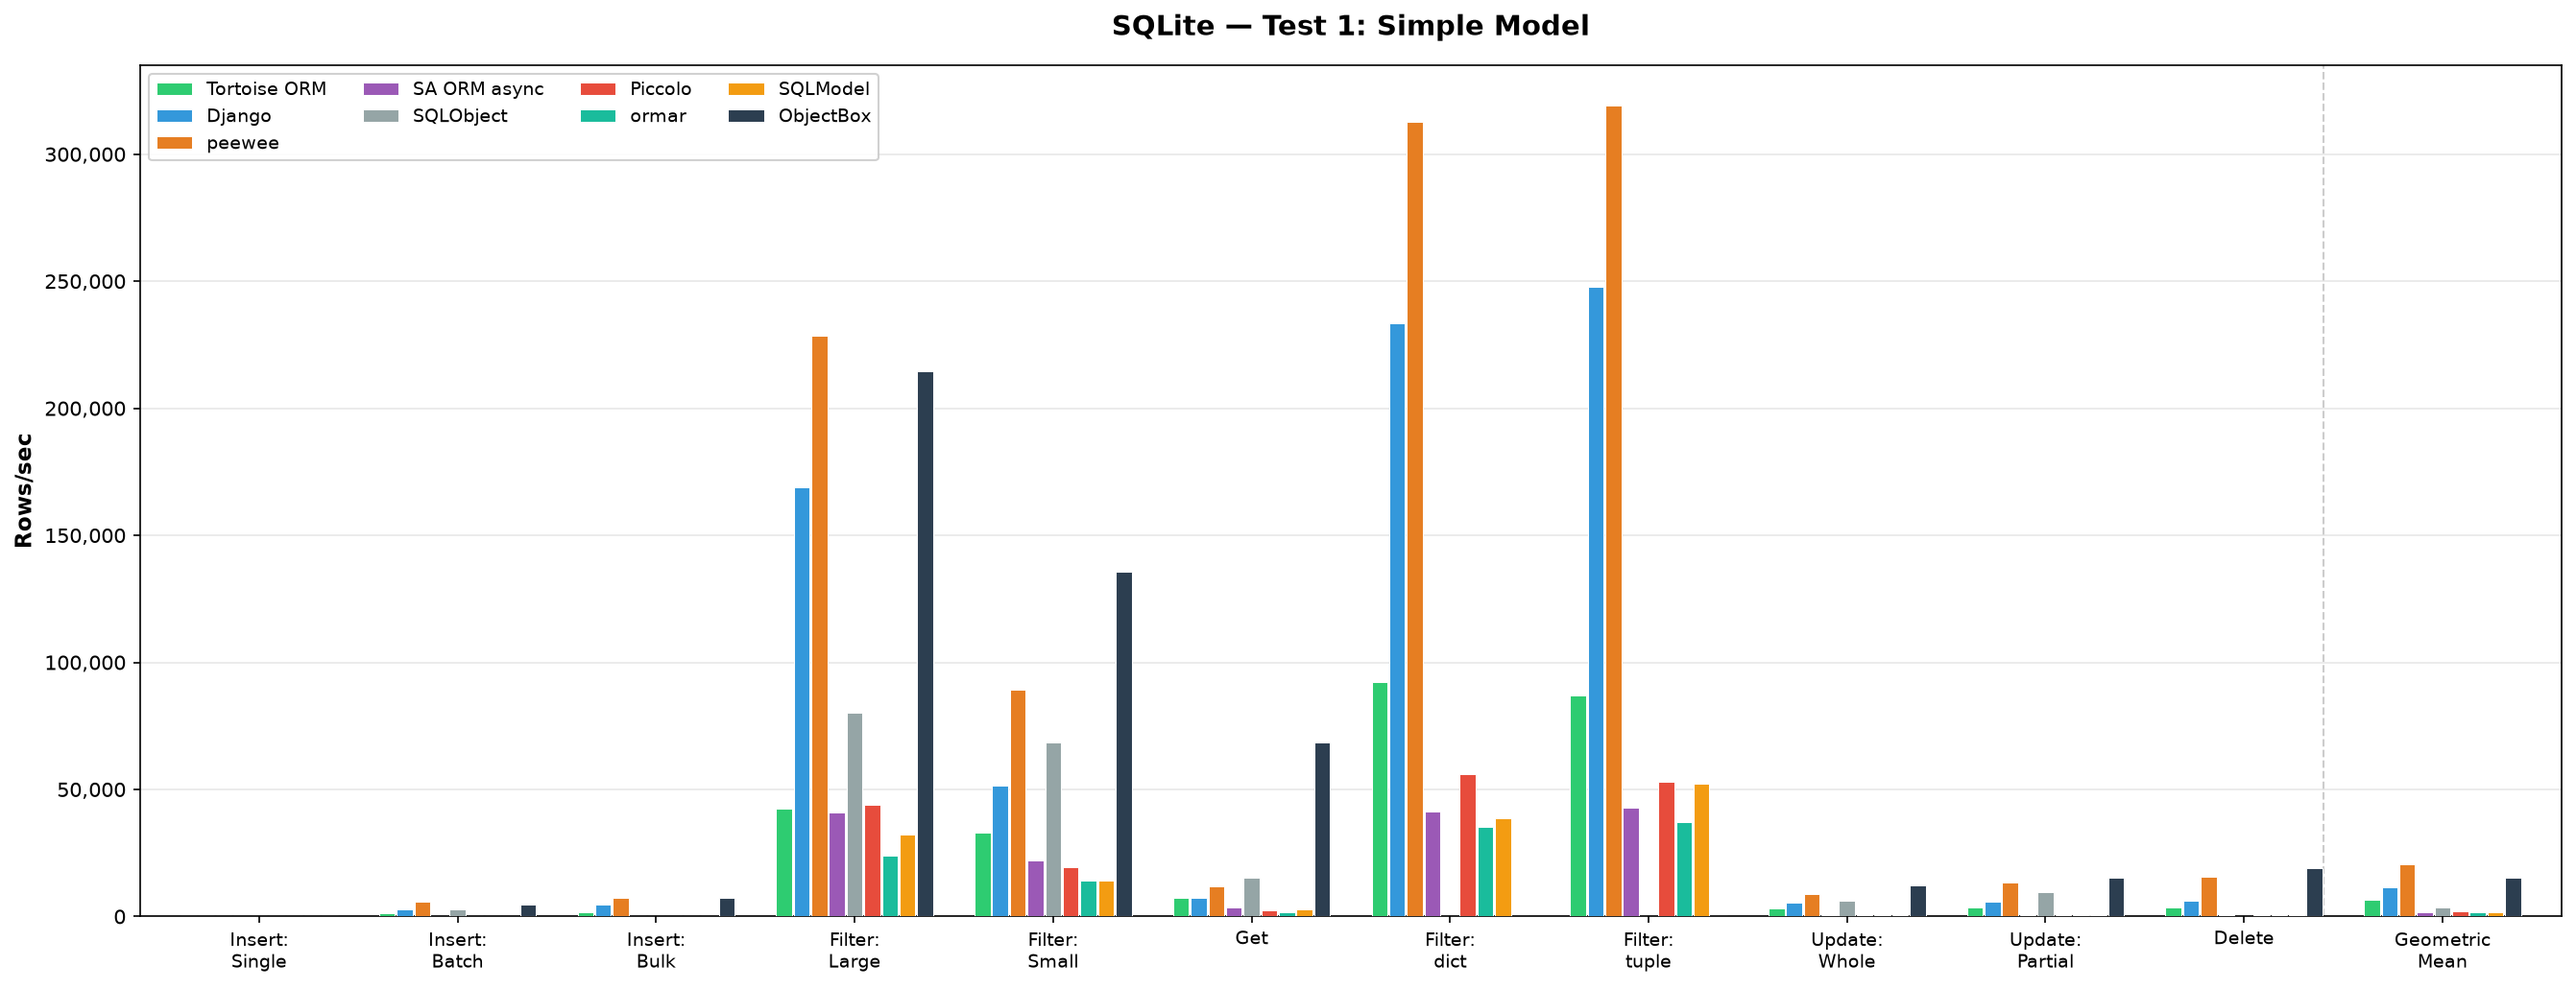
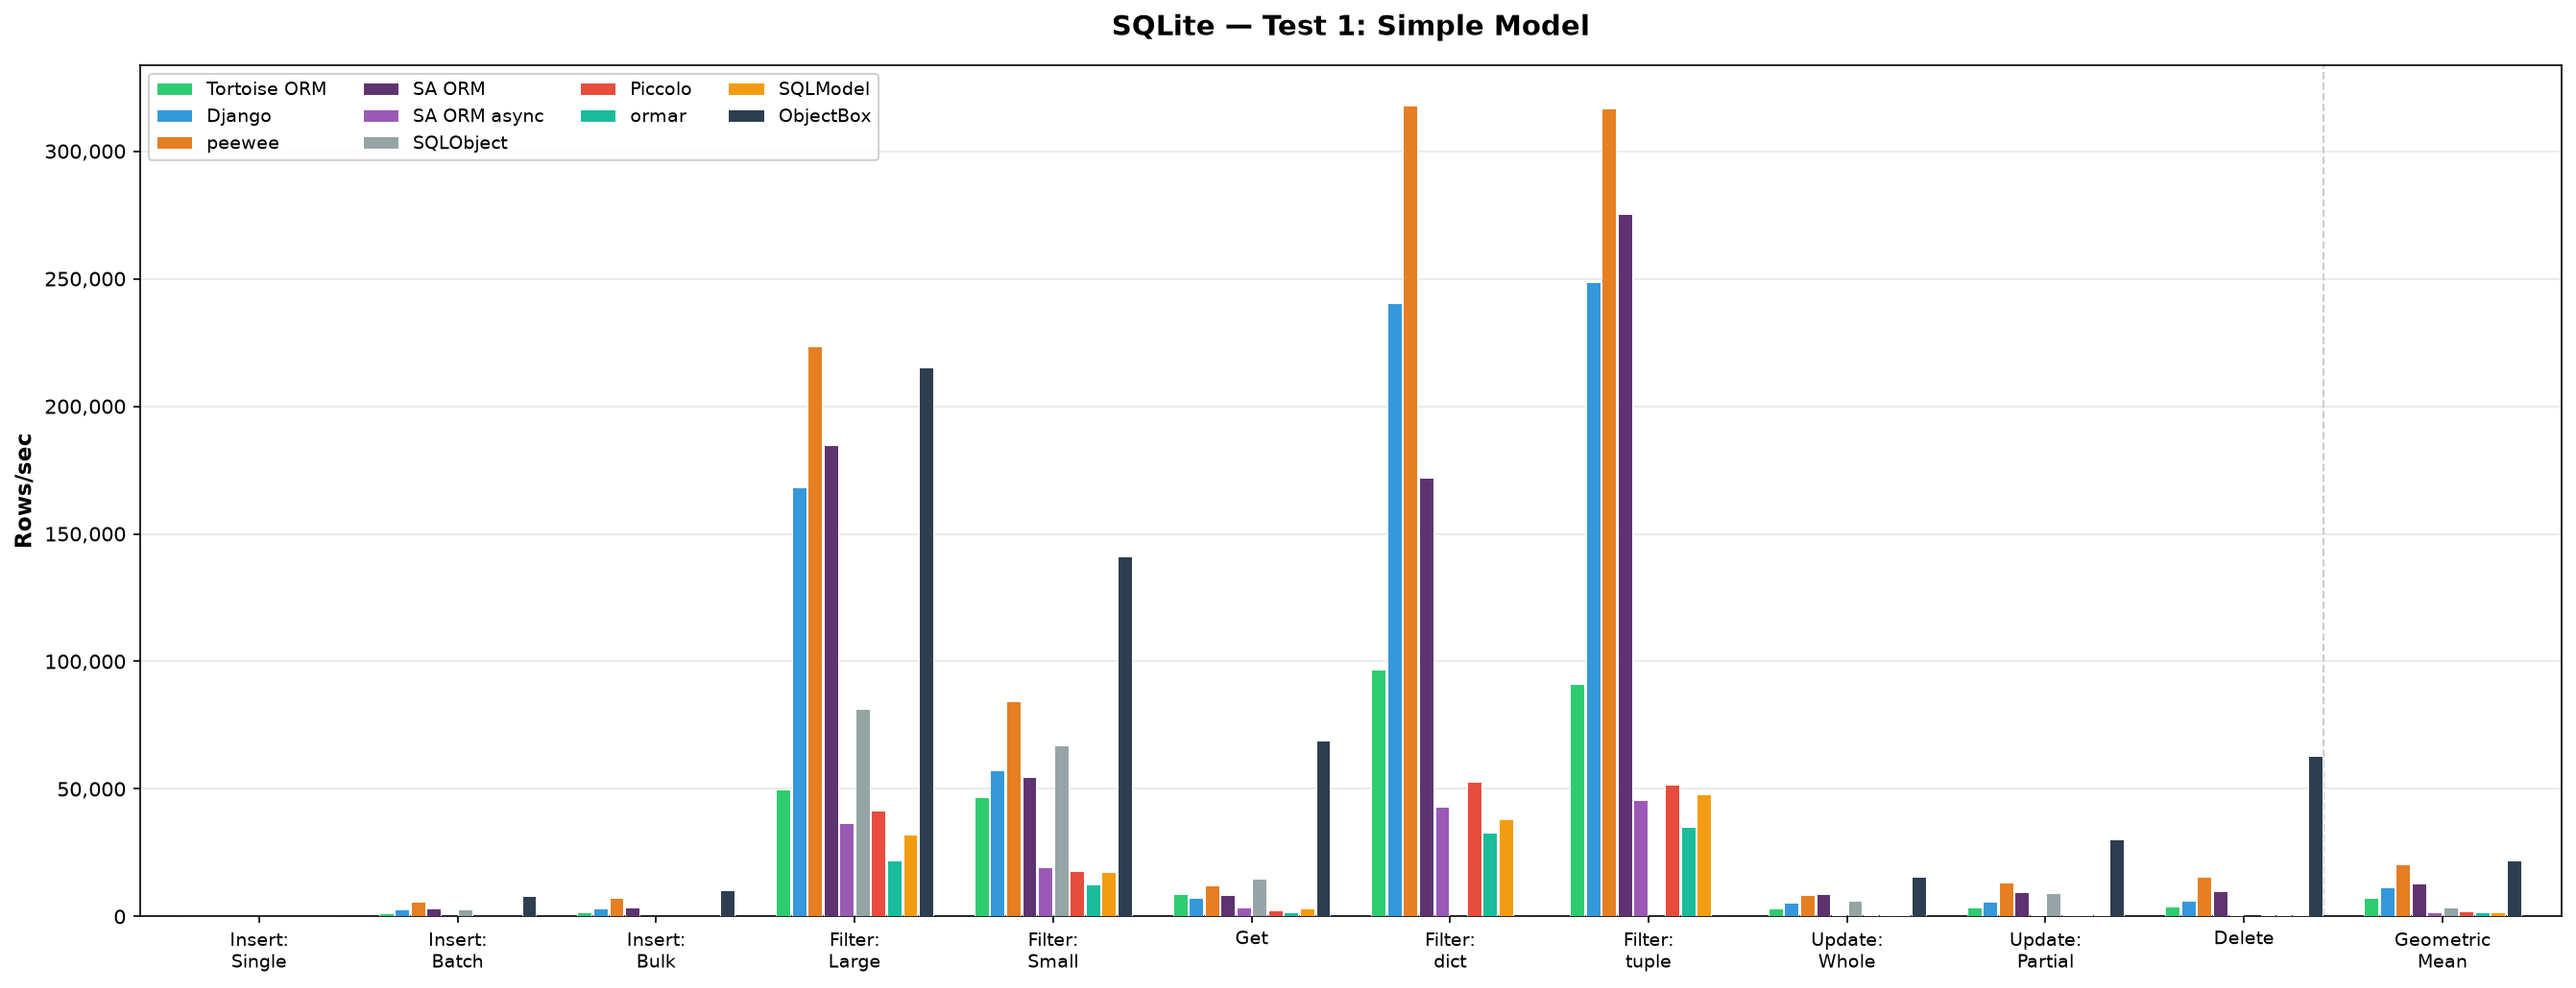
Update SQLite results: add SA ORM, use median of 5 runs
Each SQLite value is now the median of 5 full runs, because single runs
of write operations vary a lot for ObjectBox. Adds sync SA ORM to the
tables, charts and analysis.

diff --git a/README.md b/README.md
@@ -9,6 +9,7 @@ Comprehensive performance benchmarks comparing popular Python ORMs across Postgr
 | [Tortoise ORM](https://github.com/tortoise/tortoise-orm) | async | asyncpg | asyncmy | aiosqlite |
 | [Django](https://www.djangoproject.com/) | sync | psycopg2 | mysqlclient | sqlite3 |
 | [peewee](https://github.com/coleifer/peewee) | sync | psycopg2 | pymysql | sqlite3 |
+| [SQLAlchemy ORM](http://www.sqlalchemy.org/) | sync | psycopg2 | mysqlclient | sqlite3 |
 | [SQLAlchemy ORM (async)](http://www.sqlalchemy.org/) | async | asyncpg | aiomysql | aiosqlite |
 | [SQLObject](https://github.com/sqlobject/sqlobject) | sync | psycopg2 | mysqlclient | sqlite3 |
 | [Piccolo](https://github.com/piccolo-orm/piccolo) | async | asyncpg | — | aiosqlite |
@@ -18,6 +19,7 @@ Comprehensive performance benchmarks comparing popular Python ORMs across Postgr
 
 > **Environment:** Python 3.14, macOS (Apple Silicon), 100 iterations per operation.
 > Piccolo does not support MySQL.
+> Sync SQLAlchemy ("SA ORM") is only in the SQLite results so far; the PostgreSQL/MySQL runs predate it.
 > ObjectBox is an embedded object database, not an ORM on top of SQL, so it is only compared in the SQLite runs. It uses the unreleased 5.0.0b1 beta with its experimental FlatBuffers codegen for writes and reads enabled (`OBX_CODEGEN=0` disables it). Differences to the SQL ORMs: Test 2 uses plain indexed ids (the Python binding has no relations), Test 3 stores decimals as strings, JSON as JSON strings (like the SQL ORMs store it as text) and leaves "nullable" columns unset (no NULL support), Filter: dict/tuple are not supported (no projection API), and Update: Partial writes the whole object. Its geometric mean covers 9 operations.
 
 ## Operations
@@ -184,7 +186,7 @@ MySQL 8 in Docker. Driver: `asyncmy` for Tortoise, `aiomysql` for SA async / orm
 
 SQLite on local filesystem (`/tmp/db.sqlite3`). This benchmark is inherently single-threaded due to SQLite's write lock — async ORMs pay overhead without concurrency benefit.
 
-> **Environment (SQLite results only):** Python 3.14.6, SQLite 3.53.1 (bundled with uv's CPython build), Linux x86_64 (AMD Ryzen 9 5950X, ext4 on NVMe), 100 iterations per operation, 1-minute load average below 1 before each ORM run. These numbers come from a different machine than the PostgreSQL/MySQL results, so don't compare them across sections. SQLite runs with `synchronous=FULL` (its compiled-in default), so every committed transaction is synced to disk, as with ObjectBox.
+> **Environment (SQLite results only):** Python 3.14.6, SQLite 3.53.1 (bundled with uv's CPython build), Linux x86_64 (AMD Ryzen 9 5950X, ext4 on NVMe), 100 iterations per operation, 1-minute load average below 1 before each ORM run. Each value is the median of 5 full runs. These numbers come from a different machine than the PostgreSQL/MySQL results, so don't compare them across sections. SQLite runs with `synchronous=FULL` (its compiled-in default), so every committed transaction is synced to disk, as with ObjectBox.
 
 ### Overview
 
@@ -194,58 +196,58 @@ SQLite on local filesystem (`/tmp/db.sqlite3`). This benchmark is inherently sin
 
 ![SQLite Test 1](images/sqlite_test1.png)
 
-| Operation | Django | peewee | SA ORM async | SQLObject | Tortoise ORM | Piccolo | ormar | SQLModel | ObjectBox | Best |
-|-----------|--------|--------|--------------|-----------|--------------|---------|-------|----------|-----------|------|
-| Insert: Single | 53 | 157 | 49 | 53 | 158 | 49 | 47 | 47 | **183** | ObjectBox |
-| Insert: Batch | 2,786 | **5,801** | 218 | 2,739 | 1,344 | 180 | 216 | 207 | 4,501 | peewee |
-| Insert: Bulk | 4,727 | 7,377 | 218 | — | 1,505 | 220 | 336 | 209 | **7,513** | ObjectBox |
-| Filter: Large | 168,837 | **228,689** | 40,838 | 80,206 | 42,515 | 43,898 | 24,029 | 32,425 | 214,597 | peewee |
-| Filter: Small | 51,327 | 89,067 | 22,014 | 68,452 | 33,120 | 19,476 | 14,025 | 14,084 | **135,496** | ObjectBox |
-| Get | 7,293 | 11,845 | 3,491 | 15,156 | 7,476 | 2,285 | 1,556 | 2,902 | **68,618** | ObjectBox |
-| Filter: dict | 233,610 | **312,883** | 41,313 | — | 92,366 | 56,064 | 35,363 | 38,657 | — | peewee |
-| Filter: tuple | 247,939 | **319,088** | 42,996 | — | 87,125 | 52,836 | 37,314 | 52,170 | — | peewee |
-| Update: Whole | 5,457 | 8,666 | 383 | 6,190 | 3,132 | 455 | 449 | 383 | **12,204** | ObjectBox |
-| Update: Partial | 5,851 | 13,408 | 380 | 9,529 | 3,505 | 456 | 447 | 383 | **15,323** | ObjectBox |
-| Delete | 6,051 | 15,672 | 381 | 53 | 3,579 | 537 | 449 | 381 | **18,972** | ObjectBox |
-| **Geometric Mean** | 11,559 | **20,678** | 1,817 | 3,734 | 6,616 | 1,914 | 1,628 | 1,681 | 15,223 | **peewee** |
+| Operation | Django | peewee | SA ORM | SA ORM async | SQLObject | Tortoise ORM | Piccolo | ormar | SQLModel | ObjectBox | Best |
+|-----------|--------|--------|--------|--------------|-----------|--------------|---------|-------|----------|-----------|------|
+| Insert: Single | 53 | 158 | 52 | 49 | 53 | 157 | 49 | 46 | 47 | **239** | ObjectBox |
+| Insert: Batch | 2,772 | 5,825 | 3,098 | 218 | 2,750 | 1,378 | 180 | 217 | 210 | **8,014** | ObjectBox |
+| Insert: Bulk | 3,326 | 7,367 | 3,370 | 219 | — | 1,519 | 220 | 278 | 211 | **10,394** | ObjectBox |
+| Filter: Large | 168,124 | **223,398** | 184,779 | 36,637 | 81,378 | 49,837 | 41,350 | 21,943 | 32,064 | 215,306 | peewee |
+| Filter: Small | 57,232 | 84,363 | 54,789 | 19,226 | 67,073 | 46,862 | 17,673 | 12,486 | 17,518 | **141,318** | ObjectBox |
+| Get | 7,217 | 12,060 | 8,395 | 3,537 | 14,983 | 8,655 | 2,396 | 1,495 | 3,158 | **68,900** | ObjectBox |
+| Filter: dict | 240,416 | **317,831** | 171,952 | 43,073 | — | 96,732 | 52,798 | 32,928 | 38,019 | — | peewee |
+| Filter: tuple | 248,679 | **316,902** | 275,307 | 45,648 | — | 90,995 | 51,600 | 35,123 | 48,002 | — | peewee |
+| Update: Whole | 5,480 | 8,567 | 8,658 | 384 | 6,218 | 3,242 | 536 | 448 | 384 | **15,724** | ObjectBox |
+| Update: Partial | 5,801 | 13,429 | 9,410 | 384 | 9,320 | 3,693 | 536 | 448 | 384 | **30,269** | ObjectBox |
+| Delete | 6,050 | 15,681 | 10,010 | 385 | 53 | 3,827 | 539 | 452 | 388 | **63,098** | ObjectBox |
+| **Geometric Mean** | 11,318 | 20,582 | 13,001 | 1,800 | 3,721 | 7,194 | 1,937 | 1,546 | 1,718 | **22,092** | **ObjectBox** |
 
 ### Test 2: FK Relations
 
 ![SQLite Test 2](images/sqlite_test2.png)
 
-| Operation | Django | peewee | SA ORM async | SQLObject | Tortoise ORM | Piccolo | ormar | SQLModel | ObjectBox | Best |
-|-----------|--------|--------|--------------|-----------|--------------|---------|-------|----------|-----------|------|
-| Insert: Single | 53 | 157 | 47 | 51 | 158 | 47 | 46 | 44 | **176** | ObjectBox |
-| Insert: Batch | 2,703 | **5,806** | 216 | 2,715 | 1,359 | 180 | 216 | 207 | 5,084 | peewee |
-| Insert: Bulk | 4,657 | 7,222 | 217 | — | 1,505 | 218 | 341 | 215 | **8,310** | ObjectBox |
-| Filter: Large | 153,086 | 194,800 | 36,975 | 79,086 | 43,529 | 39,327 | 17,095 | 36,388 | **206,884** | ObjectBox |
-| Filter: Small | 59,006 | 85,639 | 16,130 | 66,036 | 37,588 | 19,067 | 11,823 | 18,995 | **130,237** | ObjectBox |
-| Get | 6,685 | 10,976 | 3,343 | 14,333 | 9,627 | 2,347 | 1,495 | 3,213 | **65,240** | ObjectBox |
-| Filter: dict | 208,085 | **294,482** | 40,190 | — | 111,946 | 52,949 | 35,567 | 38,917 | — | peewee |
-| Filter: tuple | 223,967 | **293,925** | 44,403 | — | 108,414 | 49,652 | 40,666 | 48,115 | — | peewee |
-| Update: Whole | 5,262 | 8,103 | 383 | 6,158 | 3,337 | 454 | 448 | 381 | **13,593** | ObjectBox |
-| Update: Partial | 5,740 | 13,002 | 381 | 9,612 | 3,686 | 455 | 448 | 381 | **22,152** | ObjectBox |
-| Delete | 1,964 | 15,989 | 287 | 53 | 3,487 | 455 | 449 | 381 | **21,834** | ObjectBox |
-| **Geometric Mean** | 10,097 | **19,719** | 1,692 | 3,664 | 7,188 | 1,836 | 1,560 | 1,744 | 16,407 | **peewee** |
+| Operation | Django | peewee | SA ORM | SA ORM async | SQLObject | Tortoise ORM | Piccolo | ormar | SQLModel | ObjectBox | Best |
+|-----------|--------|--------|--------|--------------|-----------|--------------|---------|-------|----------|-----------|------|
+| Insert: Single | 53 | 157 | 52 | 47 | 53 | 157 | 49 | 47 | 47 | **231** | ObjectBox |
+| Insert: Batch | 2,701 | 5,756 | 2,741 | 216 | 2,703 | 1,362 | 180 | 216 | 207 | **7,498** | ObjectBox |
+| Insert: Bulk | 3,283 | 7,392 | 2,978 | 217 | — | 1,520 | 218 | 397 | 210 | **9,715** | ObjectBox |
+| Filter: Large | 157,143 | 196,017 | 149,434 | 31,279 | 78,336 | 49,446 | 38,075 | 19,964 | 26,665 | **207,817** | ObjectBox |
+| Filter: Small | 50,730 | 82,186 | 41,612 | 17,365 | 66,118 | 44,013 | 18,150 | 11,223 | 15,023 | **131,230** | ObjectBox |
+| Get | 6,868 | 10,950 | 6,928 | 3,136 | 14,730 | 9,254 | 2,339 | 1,382 | 3,046 | **66,318** | ObjectBox |
+| Filter: dict | 215,771 | **291,237** | 140,742 | 41,473 | — | 107,600 | 54,752 | 32,073 | 37,116 | — | peewee |
+| Filter: tuple | 223,660 | **290,551** | 204,086 | 44,436 | — | 99,757 | 50,484 | 32,249 | 46,358 | — | peewee |
+| Update: Whole | 5,328 | 8,096 | 7,919 | 382 | 6,214 | 3,367 | 455 | 390 | 385 | **15,674** | ObjectBox |
+| Update: Partial | 5,789 | 13,200 | 8,573 | 383 | 9,531 | 3,798 | 455 | 448 | 384 | **30,200** | ObjectBox |
+| Delete | 2,003 | 15,664 | 2,163 | 293 | 53 | 3,735 | 456 | 451 | 385 | **60,834** | ObjectBox |
+| **Geometric Mean** | 9,757 | 19,634 | 9,768 | 1,679 | 3,686 | 7,344 | 1,839 | 1,522 | 1,648 | **21,231** | **ObjectBox** |
 
 ### Test 3: Wide Model (32+ fields)
 
 ![SQLite Test 3](images/sqlite_test3.png)
 
-| Operation | Django | peewee | SA ORM async | SQLObject | Tortoise ORM | Piccolo | ormar | SQLModel | ObjectBox | Best |
-|-----------|--------|--------|--------------|-----------|--------------|---------|-------|----------|-----------|------|
-| Insert: Single | 52 | 154 | 49 | 52 | 155 | 49 | 42 | 46 | **158** | ObjectBox |
-| Insert: Batch | 2,139 | **4,202** | 217 | 2,204 | 1,154 | 179 | 144 | 200 | 3,723 | peewee |
-| Insert: Bulk | 2,841 | 4,337 | 217 | — | 1,303 | 212 | 203 | 203 | **6,536** | ObjectBox |
-| Filter: Large | 49,657 | 48,973 | 14,216 | 39,037 | 22,366 | 8,968 | 5,403 | 7,698 | **60,784** | ObjectBox |
-| Filter: Small | 24,559 | 25,910 | 13,664 | 35,626 | 24,902 | 9,222 | 5,804 | 6,943 | **40,348** | ObjectBox |
-| Get | 3,865 | 3,712 | 3,194 | 9,597 | 6,122 | 1,880 | 1,069 | 2,165 | **21,953** | ObjectBox |
-| Filter: dict | 61,875 | **70,172** | 10,368 | — | 42,848 | 15,694 | 7,841 | 7,415 | — | peewee |
-| Filter: tuple | 66,224 | **78,609** | 10,229 | — | 39,364 | 13,055 | 7,278 | 9,537 | — | peewee |
-| Update: Whole | 3,834 | 3,880 | 381 | 6,074 | 3,141 | 392 | 384 | 378 | **13,585** | ObjectBox |
-| Update: Partial | 5,356 | **12,734** | 437 | 9,297 | 3,668 | 451 | 446 | 380 | 10,000 | peewee |
-| Delete | 5,843 | 15,496 | 383 | 53 | 3,819 | 537 | 450 | 379 | **22,791** | ObjectBox |
-| **Geometric Mean** | 6,394 | 9,484 | 1,229 | 2,868 | 5,086 | 1,171 | 856 | 984 | **9,518** | **ObjectBox** |
+| Operation | Django | peewee | SA ORM | SA ORM async | SQLObject | Tortoise ORM | Piccolo | ormar | SQLModel | ObjectBox | Best |
+|-----------|--------|--------|--------|--------------|-----------|--------------|---------|-------|----------|-----------|------|
+| Insert: Single | 52 | 155 | 53 | 49 | 53 | 155 | 48 | 44 | 48 | **203** | ObjectBox |
+| Insert: Batch | 2,139 | 4,270 | 2,842 | 216 | 2,209 | 1,157 | 179 | 146 | 199 | **4,540** | ObjectBox |
+| Insert: Bulk | 2,820 | **4,344** | 3,135 | 217 | — | 1,321 | 213 | 258 | 202 | 4,254 | peewee |
+| Filter: Large | 51,379 | 48,347 | **74,935** | 9,642 | 41,141 | 23,165 | 9,109 | 6,545 | 9,243 | 60,274 | SA ORM |
+| Filter: Small | 23,787 | 26,582 | 31,058 | 7,568 | 36,644 | 21,260 | 7,274 | 5,126 | 7,465 | **38,353** | ObjectBox |
+| Get | 3,839 | 4,115 | 6,690 | 2,327 | 9,681 | 4,905 | 1,694 | 1,030 | 2,579 | **22,198** | ObjectBox |
+| Filter: dict | 61,394 | **75,234** | 62,682 | 11,453 | — | 35,142 | 13,020 | 8,723 | 9,532 | — | peewee |
+| Filter: tuple | 66,704 | 78,157 | **86,057** | 12,424 | — | 32,615 | 12,584 | 10,257 | 10,777 | — | SA ORM |
+| Update: Whole | 3,834 | 3,975 | 8,121 | 384 | 6,119 | 3,111 | 394 | 383 | 383 | **12,323** | ObjectBox |
+| Update: Partial | 5,337 | 12,805 | 8,859 | 381 | 9,058 | 3,569 | 451 | 449 | 382 | **13,844** | ObjectBox |
+| Delete | 5,863 | 15,659 | 9,788 | 381 | 53 | 3,669 | 537 | 452 | 380 | **49,045** | ObjectBox |
+| **Geometric Mean** | 6,392 | 9,695 | 8,899 | 1,107 | 2,899 | 4,733 | 1,113 | 919 | 1,063 | **10,596** | **ObjectBox** |
 
 ---
 
@@ -261,18 +263,18 @@ Tortoise ORM wins every test by a wide margin (2x over the runner-up). The `asyn
 
 ### SQLite — Sync ORMs are faster
 
-On SQLite, async overhead hurts more than it helps — there is no concurrency to exploit due to SQLite's single-writer lock. Sync ORMs (peewee, Django, SQLObject) avoid the `aiosqlite` polling overhead and win handily. Among the SQL ORMs, peewee has the best geometric mean in all three tests and leads every filter on Tests 1 and 2. On the wide model (Test 3), Django leads Filter: Large among them, and SQLObject leads Filter: Small, Get and Update: Whole. Tortoise ORM remains the fastest async ORM on SQLite.
+On SQLite, async overhead hurts more than it helps — there is no concurrency to exploit due to SQLite's single-writer lock. Sync ORMs (peewee, SA ORM, Django, SQLObject) avoid the `aiosqlite` polling overhead and win handily. Among the SQL ORMs, peewee has the best geometric mean in all three tests, followed by sync SA ORM and Django (nearly tied on Test 2). Sync SA ORM is 2–8x faster than SA ORM async on reads and 7–26x on batch/bulk inserts, updates and deletes (single inserts, one synced commit each, are about the same); on the wide model (Test 3) it leads Filter: Large, Filter: tuple and Update: Whole among the SQL ORMs, and SQLObject leads Filter: Small and Get. Tortoise ORM remains the fastest async ORM on SQLite.
 
-ObjectBox (embedded object database, experimental codegen for writes and reads) wins Get in all three tests by 2.3–4.6x over the runner-up, and Filter: Small by 1.1–1.5x. Filter: Large is close to peewee on Test 1 (215k vs 229k rows/sec) and ahead on Tests 2 and 3. Among writes, it wins Insert: Single, Insert: Bulk, Update: Whole and Delete in all three tests, while peewee keeps Insert: Batch and, on Test 3, Update: Partial. Its geometric mean trails peewee on Tests 1 and 2 (15,223 vs 20,678 and 16,407 vs 19,719) and ties it on Test 3 (9,518 vs 9,484). Its mean leaves out Filter: dict/tuple, peewee's strongest operations. ObjectBox's write results vary between runs: repeated Test 1 runs gave 4,800–9,900 rows/sec for Insert: Batch and 19,000–63,000 for Delete, while peewee's stayed within 2%.
+ObjectBox (embedded object database, experimental codegen for writes and reads) has the best geometric mean in all three tests (22,092 vs peewee's 20,582, 21,231 vs 19,634 and 10,596 vs 9,695), though its mean leaves out Filter: dict/tuple, peewee's strongest operations. It wins Get in all three tests by 2.3–4.6x over the runner-up and Filter: Small by 1.05–1.7x. Filter: Large is close to peewee on Test 1 (215k vs 223k rows/sec), ahead on Test 2, and behind SA ORM on Test 3 (60k vs 75k). It wins every write operation except Insert: Bulk on Test 3, where peewee is 2% ahead. ObjectBox's write results vary between runs much more than the SQL ORMs': individual runs are either at a typical level or 2–4x slower (e.g. Delete on Test 1: 22,658 in one run, 61,000–64,000 in the other four), while peewee's and SA ORM's mostly stayed within a few percent. The medians reflect the typical level.
 
 ### Key takeaways
 
 - **For PostgreSQL/MySQL production workloads**: Tortoise ORM and Piccolo (PG only) offer the best throughput
-- **For SQLite/local development**: peewee and Django are faster due to lower async overhead
-- **SA ORM async / SQLModel**: Strong on reads but consistently slow on writes due to Session/UoW overhead. SQLModel tracks closely with SA ORM async (expected — it's a thin wrapper around SQLAlchemy)
+- **For SQLite/local development**: peewee, sync SA ORM and Django are faster due to lower async overhead
+- **SA ORM async / SQLModel**: Strong on reads but consistently slow on writes due to Session/UoW overhead (on SQLite, the sync SA ORM doesn't share this write penalty). SQLModel tracks closely with SA ORM async (expected — it's a thin wrapper around SQLAlchemy)
 - **ormar**: Pydantic validation overhead causes significant slowdown, especially on wide models (Test 3)
 - **SQLObject**: Missing bulk insert and dict/tuple filter operations, but surprisingly fast on single-row SQLite operations
-- **ObjectBox** (SQLite runs only): fastest Get and small filters, wins most writes; on par with peewee overall, without the dict/tuple operations
+- **ObjectBox** (SQLite runs only): fastest Get and small filters, wins nearly all writes, best geometric mean (without the dict/tuple operations)
 
 ## Running the benchmarks
 
